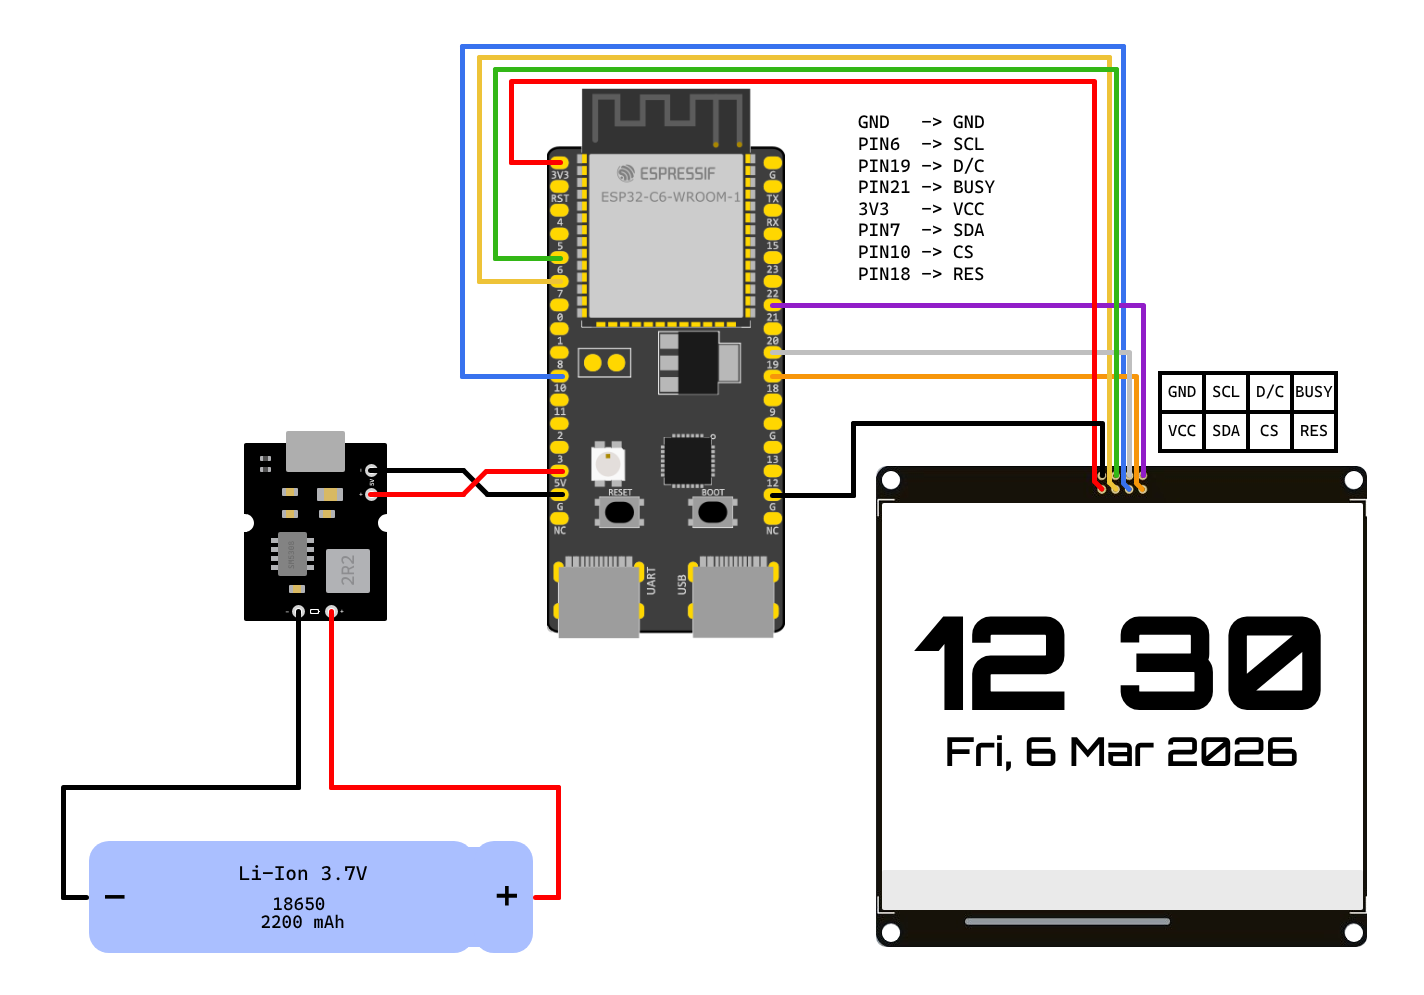
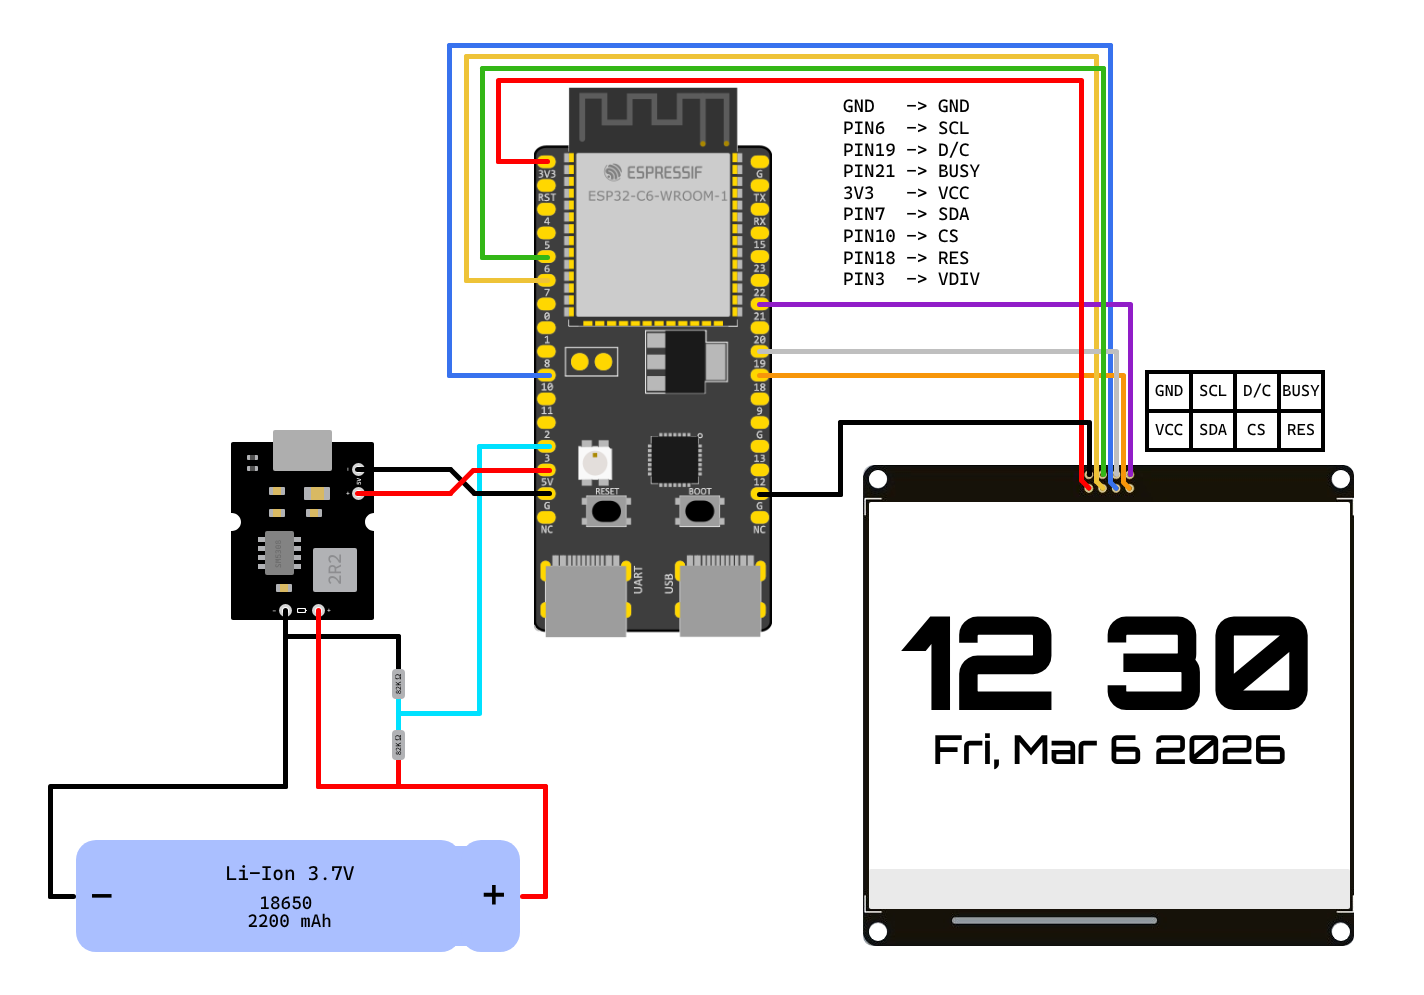
docs(readme): document the battery indicator and update future plans section

diff --git a/README.md b/README.md
@@ -8,7 +8,7 @@ A standalone e-ink desk display built around an ESP32-C6 microcontroller, runnin
 
 ## Screens
 
-Four screens cycle on a timer, or one can be pinned, both configurable via the web page. Each shows a Wi-Fi icon in the top right corner when connected.
+Four screens cycle on a timer, or one can be pinned, both configurable via the web page. Each shows the battery level and a Wi-Fi icon in the top right corner.
 
 ### Clock
 
@@ -58,6 +58,7 @@ Roughly 30€ in parts including the enclosure.
 | WeAct 4.2" e-ink screen | 400x300, black and white, SSD1683 controller |
 | SM5308 power module | USB-C input, charge and boost |
 | 18650 li-ion cell | Used 2200mAh, size depends on desired runtime |
+| 2x 82kΩ resistors | Voltage divider for the battery reading |
 | 3D printed enclosure | Two .stl files modeled by me, see `enclosure/` |
 
 <br>
@@ -155,9 +156,10 @@ data/
 - ~~Dark mode for both the panel and the web page.~~
 - ~~Choice of any US stock or ETF for the markets screen, not just SPY.~~
 - ~~Temperature unit switching, Celsius or Fahrenheit.~~
+- ~~Battery charge level monitoring.~~
 - Fix bugs surfacing from longer-term use.
-- Battery charge level monitoring.
 - Web page UI/UX improvements.
+- Wi-Fi setup through a temporary access point, instead of compiling credentials in.
 - Custom PCB, replacing the current point-to-point wiring.
 
 ---
